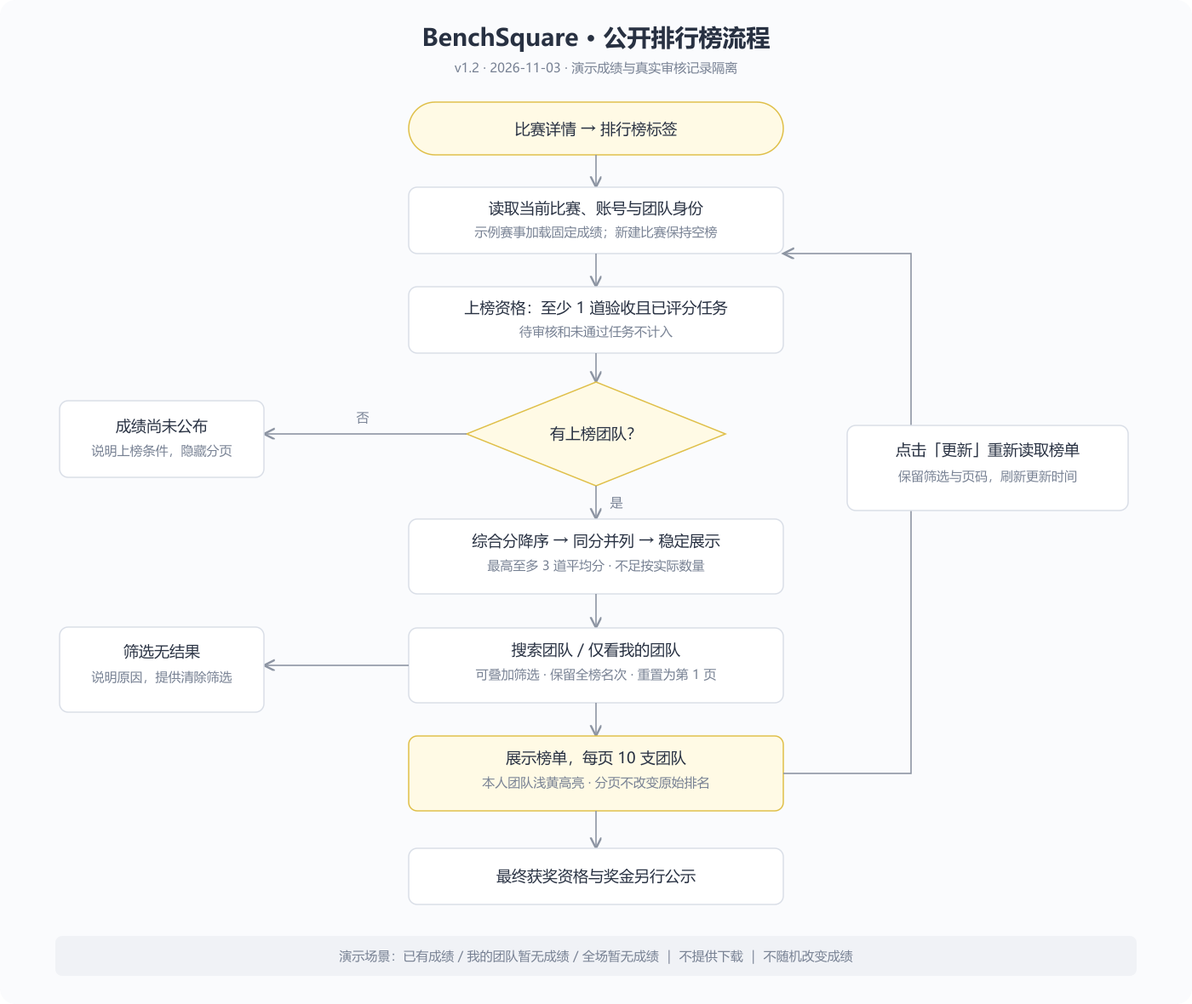
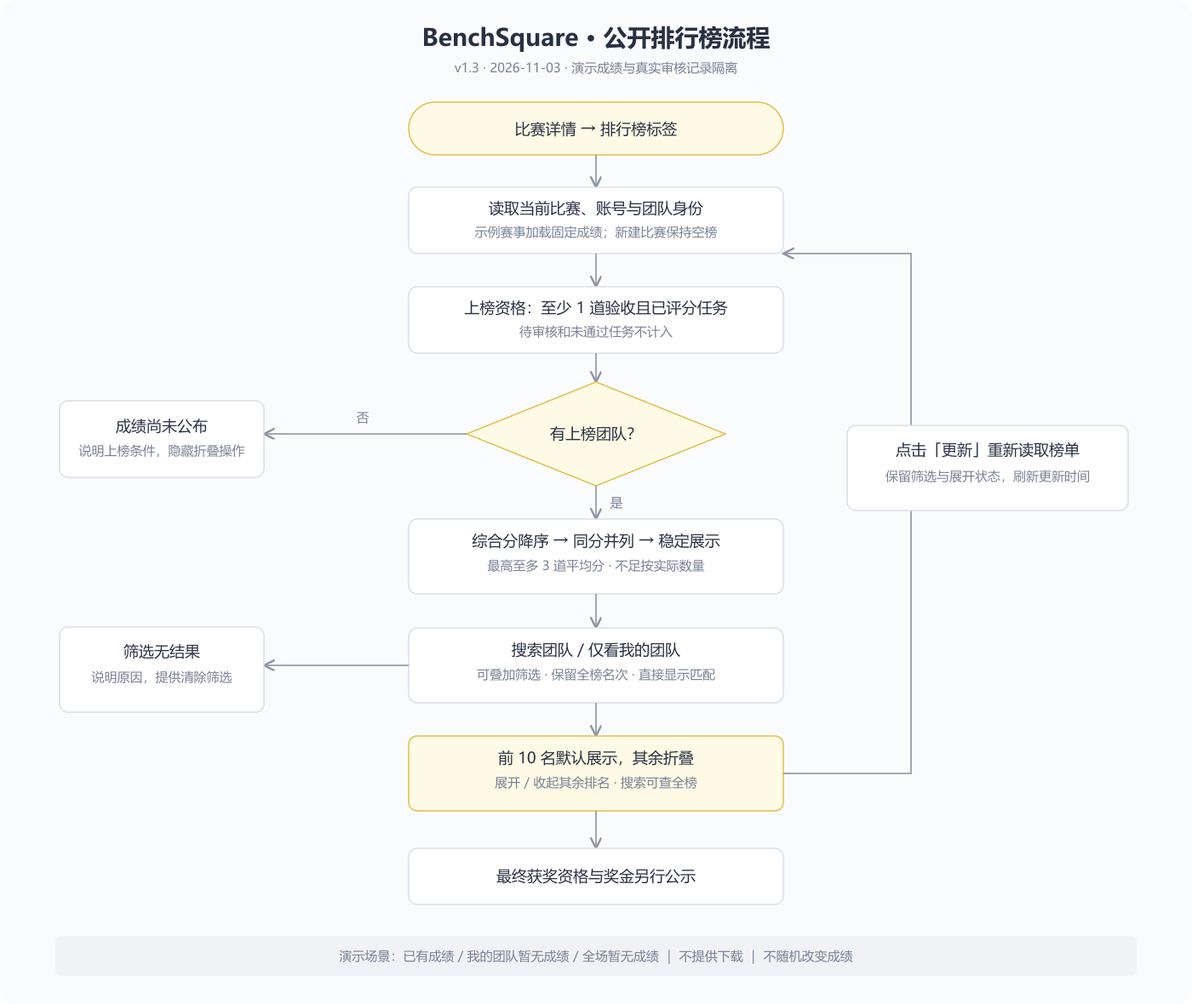
Show top ten leaderboard ranks and fold remaining teams

diff --git a/frontend/leaderboard.css b/frontend/leaderboard.css
@@ -1,2 +1,4 @@
-.detail-grid.lb-full-width{display:block}.lb-full-width>.detail-aside{display:none}.lb-full-width>.prose{max-width:none;min-width:0}.leaderboard{padding:5px 0 20px;color:var(--text,#111827)}.lb-heading{display:flex;align-items:center;justify-content:space-between;gap:20px;margin:0 0 25px}.lb-kicker{font-size:10px;letter-spacing:1.7px;color:#8a7861;margin-bottom:8px}.leaderboard .lb-heading h2{font-size:25px;margin:0;display:flex;align-items:center;gap:12px}.leaderboard .lb-heading p{font-size:12px;color:#778193;margin:9px 0 0}.lb-demo-badge{font-size:10px;font-weight:400;letter-spacing:0;background:#fcf8e8;color:#8c6d13;border:1px solid #f0e3a5;border-radius:5px;padding:3px 7px}.lb-refresh{border-radius:24px;min-width:100px}.lb-refresh>span{font-size:20px;font-weight:400}.lb-controls{display:flex;gap:22px;align-items:center}.lb-search{display:flex;gap:12px;align-items:center;border:1px solid #dce0e6;border-radius:28px;padding:12px 18px;flex:1;background:#fff}.lb-search:focus-within{border-color:#b99724;box-shadow:0 0 0 2px #fbf5d4}.lb-search svg{width:18px;height:18px;fill:none;stroke:currentColor;stroke-width:1.7;flex:none}.lb-search input{border:0;outline:0;box-shadow:none;background:transparent;width:100%;font:inherit;font-size:12px;color:inherit}.lb-only-mine{display:flex;align-items:center;gap:8px;font-size:12px;white-space:nowrap}.lb-only-mine input{accent-color:#b58b00;width:15px;height:15px}.leaderboard .lb-rule{font-size:11px;line-height:1.9;color:#6e7786;margin:18px 0 14px}.lb-demo-controls{display:flex;align-items:center;gap:10px;background:#fafafa;border:1px solid #eceef1;padding:9px 12px;border-radius:7px;font-size:11px;color:#7b8290;margin-bottom:18px}.lb-demo-controls select{border:1px solid #e0e3e8;border-radius:5px;padding:5px 8px;background:white;color:#4b5563;font:inherit}.lb-meta{display:flex;justify-content:space-between;gap:15px;font-size:11px;color:#7b8290;margin:0 0 13px}.lb-meta b{font-weight:600;color:#303744}.lb-table-wrap{border:1px solid #e0e3e8;border-radius:10px;overflow-x:auto}.leaderboard .lb-table{width:100%;border-collapse:collapse;font-size:12px;margin:0;min-width:710px}.lb-table th{background:#fafbfc;font-size:11px;color:#566071;font-weight:600;text-align:left;padding:17px 22px;border-bottom:1px solid #e0e3e8;white-space:nowrap}.lb-table td{padding:18px 22px;border-bottom:1px solid #e9ecf0;height:72px;vertical-align:middle}.lb-table tr:last-child td{border-bottom:0}.lb-table tbody tr:hover{background:#fafbfc}.lb-table td strong{font-weight:500;color:#202938}.lb-table .lb-number{text-align:right;font-variant-numeric:tabular-nums}.lb-table .lb-score{font-size:14px;font-weight:600;color:#111827}.lb-table .lb-date{font-size:11px;color:#7b8290;white-space:nowrap}.lb-rank{width:27px;height:27px;display:inline-flex;align-items:center;justify-content:center;color:#778193;font-variant-numeric:tabular-nums}.lb-top{border-radius:50%;font-weight:600}.lb-top-1{background:#fff2b3;color:#987500}.lb-top-2{background:#edf0f4;color:#667183}.lb-top-3{background:#f4e8da;color:#9b7954}.lb-table tr.lb-mine,.lb-table tr.lb-mine:hover{background:#fffbed}.lb-mine td:first-child{box-shadow:inset 3px 0 #e4bd28}.lb-my-label{display:inline-block;margin-left:10px;padding:2px 6px;background:#f8edbb;border-radius:4px;font-size:9px;white-space:nowrap;color:#876800}.lb-members{display:flex;padding-left:4px}.lb-avatar{display:inline-flex;align-items:center;justify-content:center;border:2px solid white;border-radius:50%;width:30px;height:30px;margin-left:-4px;background:#e8eff0;color:#4c7276;font-size:9px;white-space:nowrap}.lb-avatar-1{background:#eeebf5;color:#85739c}.lb-avatar-2{background:#f4ebde;color:#9c7d52}.lb-avatar-more{background:#f0f2f4;color:#7e8590}.lb-pagination{display:flex;justify-content:space-between;align-items:center;gap:12px;margin-top:20px;color:#7b8290;font-size:11px}.lb-pagination>div{display:flex;gap:9px}.lb-pagination .button{padding:8px 14px;font-size:11px;min-height:34px}.leaderboard button:disabled{opacity:.4;cursor:not-allowed}.leaderboard .lb-footnote{font-size:10px;color:#9299a4;margin-top:24px}.lb-own-notice{display:flex;flex-direction:column;gap:7px;background:#fffbed;border:1px solid #eee0a8;padding:14px 17px;border-radius:8px;margin-bottom:18px;font-size:11px}.lb-own-notice strong{font-weight:600;color:#886c14}.lb-own-notice span{color:#8c8165}.lb-empty{text-align:center;padding:65px 20px;border:1px dashed #dfe3e9;border-radius:10px;min-height:240px}.lb-empty svg{width:29px;height:29px;fill:none;stroke:#b7a46c;stroke-width:1.3}.leaderboard .lb-empty h3{font-size:16px;margin:14px 0 9px;font-weight:500}.leaderboard .lb-empty p{font-size:12px;color:#7b8290}.lb-empty small{font-size:10px;color:#9299a4}.lb-empty .button{margin-top:12px}.lb-sr{position:absolute;clip-path:inset(50%);width:1px;height:1px;overflow:hidden}
-@media(max-width:760px){.lb-heading{gap:10px}.leaderboard .lb-heading h2{font-size:21px;gap:8px}.lb-controls{align-items:stretch;flex-direction:column;gap:13px}.lb-only-mine{align-self:flex-start}.lb-demo-controls{flex-wrap:wrap}.lb-demo-controls>span{flex-basis:100%}.lb-meta{flex-wrap:wrap;gap:6px}.lb-pagination{align-items:flex-start;flex-wrap:wrap}.lb-table th,.lb-table td{padding-left:14px;padding-right:14px}}
+.detail-grid.lb-full-width{display:block}.lb-full-width>.detail-aside{display:none}.lb-full-width>.prose{max-width:none;min-width:0}.leaderboard{padding:5px 0 20px;color:var(--text,#111827)}.lb-heading{display:flex;align-items:center;justify-content:space-between;gap:20px;margin:0 0 25px}.lb-kicker{font-size:10px;letter-spacing:1.7px;color:#8a7861;margin-bottom:8px}.leaderboard .lb-heading h2{font-size:25px;margin:0;display:flex;align-items:center;gap:12px}.leaderboard .lb-heading p{font-size:12px;color:#778193;margin:9px 0 0}.lb-demo-badge{font-size:10px;font-weight:400;letter-spacing:0;background:#fcf8e8;color:#8c6d13;border:1px solid #f0e3a5;border-radius:5px;padding:3px 7px}.lb-refresh{border-radius:24px;min-width:100px}.lb-refresh>span{font-size:20px;font-weight:400}.lb-controls{display:flex;gap:22px;align-items:center}.lb-search{display:flex;gap:12px;align-items:center;border:1px solid #dce0e6;border-radius:28px;padding:12px 18px;flex:1;background:#fff}.lb-search:focus-within{border-color:#b99724;box-shadow:0 0 0 2px #fbf5d4}.lb-search svg{width:18px;height:18px;fill:none;stroke:currentColor;stroke-width:1.7;flex:none}.lb-search input{border:0;outline:0;box-shadow:none;background:transparent;width:100%;font:inherit;font-size:12px;color:inherit}.lb-only-mine{display:flex;align-items:center;gap:8px;font-size:12px;white-space:nowrap}.lb-only-mine input{accent-color:#b58b00;width:15px;height:15px}.leaderboard .lb-rule{font-size:11px;line-height:1.9;color:#6e7786;margin:18px 0 14px}.lb-demo-controls{display:flex;align-items:center;gap:10px;background:#fafafa;border:1px solid #eceef1;padding:9px 12px;border-radius:7px;font-size:11px;color:#7b8290;margin-bottom:18px}.lb-demo-controls select{border:1px solid #e0e3e8;border-radius:5px;padding:5px 8px;background:white;color:#4b5563;font:inherit}.lb-meta{display:flex;justify-content:space-between;gap:15px;font-size:11px;color:#7b8290;margin:0 0 13px}.lb-meta b{font-weight:600;color:#303744}.lb-table-wrap{border:1px solid #e0e3e8;border-radius:10px;overflow-x:auto}.leaderboard .lb-table{width:100%;border-collapse:collapse;font-size:12px;margin:0;min-width:710px}.lb-table th{background:#fafbfc;font-size:11px;color:#566071;font-weight:600;text-align:left;padding:17px 22px;border-bottom:1px solid #e0e3e8;white-space:nowrap}.lb-table td{padding:18px 22px;border-bottom:1px solid #e9ecf0;height:72px;vertical-align:middle}.lb-table tr:last-child td{border-bottom:0}.lb-table tbody tr:hover{background:#fafbfc}.lb-table td strong{font-weight:500;color:#202938}.lb-table .lb-number{text-align:right;font-variant-numeric:tabular-nums}.lb-table .lb-score{font-size:14px;font-weight:600;color:#111827}.lb-table .lb-date{font-size:11px;color:#7b8290;white-space:nowrap}.lb-rank{width:27px;height:27px;display:inline-flex;align-items:center;justify-content:center;color:#778193;font-variant-numeric:tabular-nums}.lb-top{border-radius:50%;font-weight:600}.lb-top-1{background:#fff2b3;color:#987500}.lb-top-2{background:#edf0f4;color:#667183}.lb-top-3{background:#f4e8da;color:#9b7954}.lb-table tr.lb-mine,.lb-table tr.lb-mine:hover{background:#fffbed}.lb-mine td:first-child{box-shadow:inset 3px 0 #e4bd28}.lb-my-label{display:inline-block;margin-left:10px;padding:2px 6px;background:#f8edbb;border-radius:4px;font-size:9px;white-space:nowrap;color:#876800}.lb-members{display:flex;padding-left:4px}.lb-avatar{display:inline-flex;align-items:center;justify-content:center;border:2px solid white;border-radius:50%;width:30px;height:30px;margin-left:-4px;background:#e8eff0;color:#4c7276;font-size:9px;white-space:nowrap}.lb-avatar-1{background:#eeebf5;color:#85739c}.lb-avatar-2{background:#f4ebde;color:#9c7d52}.lb-avatar-more{background:#f0f2f4;color:#7e8590}.lb-fold-control{display:flex;justify-content:space-between;align-items:center;gap:12px;margin-top:20px;color:#7b8290;font-size:11px}.lb-fold-control>div{display:flex;gap:9px}.lb-fold-control .button{padding:8px 14px;font-size:11px;min-height:34px}.leaderboard button:disabled{opacity:.4;cursor:not-allowed}.leaderboard .lb-footnote{font-size:10px;color:#9299a4;margin-top:24px}.lb-own-notice{display:flex;flex-direction:column;gap:7px;background:#fffbed;border:1px solid #eee0a8;padding:14px 17px;border-radius:8px;margin-bottom:18px;font-size:11px}.lb-own-notice strong{font-weight:600;color:#886c14}.lb-own-notice span{color:#8c8165}.lb-empty{text-align:center;padding:65px 20px;border:1px dashed #dfe3e9;border-radius:10px;min-height:240px}.lb-empty svg{width:29px;height:29px;fill:none;stroke:#b7a46c;stroke-width:1.3}.leaderboard .lb-empty h3{font-size:16px;margin:14px 0 9px;font-weight:500}.leaderboard .lb-empty p{font-size:12px;color:#7b8290}.lb-empty small{font-size:10px;color:#9299a4}.lb-empty .button{margin-top:12px}.lb-sr{position:absolute;clip-path:inset(50%);width:1px;height:1px;overflow:hidden}
+@media(max-width:760px){.lb-heading{gap:10px}.leaderboard .lb-heading h2{font-size:21px;gap:8px}.lb-controls{align-items:stretch;flex-direction:column;gap:13px}.lb-only-mine{align-self:flex-start}.lb-demo-controls{flex-wrap:wrap}.lb-demo-controls>span{flex-basis:100%}.lb-meta{flex-wrap:wrap;gap:6px}.lb-fold-control{align-items:flex-start;flex-wrap:wrap}.lb-table th,.lb-table td{padding-left:14px;padding-right:14px}}
+
+.lb-fold-control .button{display:inline-flex;align-items:center;gap:9px}.lb-fold-control .button[aria-expanded="true"]{background:#fffbed}

diff --git a/frontend/leaderboard.js b/frontend/leaderboard.js
@@ -2,7 +2,7 @@
   'use strict';
   const M=LeaderboardModel,oldContent=detailContent,oldDetails=details;
   const views=new Map();
-  function view(c){const key=c.id+':'+window.expertCenter.uid();if(!views.has(key))views.set(key,{query:'',mine:false,page:1,scenario:'scores',updatedAt:null});return views.get(key);}
+  function view(c){const key=c.id+':'+window.expertCenter.uid();if(!views.has(key))views.set(key,{query:'',mine:false,expanded:false,scenario:'scores',updatedAt:null});return views.get(key);}
   const team=c=>window.expertCenter.db.teams.find(t=>t.cid===c.id&&t.members.includes(window.expertCenter.uid()));
   const isDemo=c=>initial.some(x=>x.id===c.id)||c.id.startsWith('mine-example-')||c.id==='workbench-demo';
   // Upgrade only the old, exact fixture wording in cached sample competitions.
@@ -24,14 +24,14 @@
   function own(c){const t=team(c);return t?{...t,members:t.members.map(id=>window.expertCenter.names(id))}:null;}
   function data(c){const v=view(c),t=own(c);const rows=isDemo(c)&&v.scenario!=='empty'?M.fixtures(c.id,v.scenario==='scores'?t:null):[];return M.select(rows,{...v,teamId:t?.id});}
   function result(c){
-    const v=view(c),t=own(c),d=data(c);v.page=d.page;
+    const v=view(c),t=own(c),d=data(c);
     let hint='';
     if(t&&!d.ranked.some(r=>r.id===t.id))hint=`<div class="lb-own-notice"><strong>${esc(t.name)} · 我的团队暂无成绩</strong><span>至少 1 道任务通过验收并完成评分即可上榜，待审核及未通过提交不计分。</span></div>`;
     let body;
     if(!d.ranked.length)body='<div class="lb-empty"><span class="lb-empty-icon">'+icon('cup')+'</span><h3>成绩尚未公布</h3><p>任务通过验收并完成评分后，符合条件的团队将在这里上榜。</p><small>榜单成绩不代表最终获奖结果，以赛事公示为准。</small></div>';
     else if(!d.total)body='<div class="lb-empty">'+icon('search')+'<h3>'+(v.mine?'我的团队暂无上榜成绩':'没有找到匹配的团队')+'</h3><p>'+(v.mine?'通过验收并完成评分后，可在此查看团队排名。':'试试其他团队名称，或清除筛选条件。')+'</p><button class="button" data-lb="clear">清除筛选</button></div>';
-    else body=`<div class="lb-table-wrap" tabindex="0" role="region" aria-label="排行榜表格，可横向滚动"><table class="lb-table"><caption class="lb-sr">按综合得分从高到低排列的团队排行榜</caption><thead><tr><th scope="col">排名</th><th scope="col">团队</th><th scope="col">成员</th><th scope="col" class="lb-number">综合得分 ↓</th><th scope="col" class="lb-number">有效提交</th><th scope="col">最近提交</th></tr></thead><tbody>${d.rows.map(r=>`<tr class="${r.id===t?.id?'lb-mine':''}"><td><span class="lb-rank ${r.rank<=3?'lb-top lb-top-'+r.rank:''}">${r.rank}</span></td><td><strong>${esc(r.name)}</strong>${r.id===t?.id?'<span class="lb-my-label">我的团队</span>':''}</td><td><div class="lb-members" aria-label="${esc(r.members.join('、'))}">${r.members.slice(0,3).map((n,i)=>`<span class="lb-avatar lb-avatar-${i}" title="${esc(n)}">${esc(n.slice(-2))}</span>`).join('')}${r.members.length>3?'<span class="lb-avatar lb-avatar-more">+'+(r.members.length-3)+'</span>':''}</div></td><td class="lb-number lb-score">${(r.score/100).toFixed(2)}</td><td class="lb-number">${r.valid}</td><td class="lb-date">${esc(date(r.lastAt))}</td></tr>`).join('')}</tbody></table></div>`;
-    return `${hint}<div class="lb-meta"><span>上榜 <b>${d.ranked.length}</b> 支团队${v.query||v.mine?' · 找到 '+d.total+' 支':''}</span><span>最近更新：${v.updatedAt?esc(date(v.updatedAt)):'尚未更新'}</span></div>${body}${d.total?`<nav class="lb-pagination" aria-label="排行榜分页"><span>第 ${d.page} / ${d.pages} 页 · 每页 10 支团队</span><div><button class="button" data-lb="prev" ${d.page===1?'disabled':''}>上一页</button><button class="button" data-lb="next" ${d.page===d.pages?'disabled':''}>下一页</button></div></nav>`:''}`;
+    else body=`<div class="lb-table-wrap" tabindex="0" role="region" aria-label="排行榜表格，可横向滚动"><table class="lb-table"><caption class="lb-sr">按综合得分从高到低排列的团队排行榜</caption><thead><tr><th scope="col">排名</th><th scope="col">团队</th><th scope="col">成员</th><th scope="col" class="lb-number">综合得分 ↓</th><th scope="col" class="lb-number">有效提交</th><th scope="col">最近提交</th></tr></thead><tbody id="lb-table-body">${d.rows.map(r=>`<tr class="${r.id===t?.id?'lb-mine':''}"><td><span class="lb-rank ${r.rank<=3?'lb-top lb-top-'+r.rank:''}">${r.rank}</span></td><td><strong>${esc(r.name)}</strong>${r.id===t?.id?'<span class="lb-my-label">我的团队</span>':''}</td><td><div class="lb-members" aria-label="${esc(r.members.join('、'))}">${r.members.slice(0,3).map((n,i)=>`<span class="lb-avatar lb-avatar-${i}" title="${esc(n)}">${esc(n.slice(-2))}</span>`).join('')}${r.members.length>3?'<span class="lb-avatar lb-avatar-more">+'+(r.members.length-3)+'</span>':''}</div></td><td class="lb-number lb-score">${(r.score/100).toFixed(2)}</td><td class="lb-number">${r.valid}</td><td class="lb-date">${esc(date(r.lastAt))}</td></tr>`).join('')}</tbody></table></div>`;
+    return `${hint}<div class="lb-meta"><span>上榜 <b>${d.ranked.length}</b> 支团队${v.query||v.mine?' · 找到 '+d.total+' 支':''}</span><span>最近更新：${v.updatedAt?esc(date(v.updatedAt)):'尚未更新'}</span></div>${body}${d.remaining?`<div class="lb-fold-control"><span>已展示 ${d.rows.length} / ${d.total} 支团队</span><button class="button" data-lb="toggle" aria-expanded="${d.expanded}" aria-controls="lb-table-body">${d.expanded?'收起第 11 名及以后':'展开第 11 名及以后（'+d.remaining+' 支团队）'} <span aria-hidden="true">${d.expanded?'↑':'↓'}</span></button></div>`:''}`;
   }
   function content(c){
     const v=view(c),t=own(c);if(!v.updatedAt)v.updatedAt=Date.now();
@@ -40,8 +40,8 @@
   detailContent=function(c){return detailTab==='排行榜'?content(c):oldContent(c);};
   details=function(c){const html=oldDetails(c);return detailTab==='排行榜'?html.replace('class="detail-grid"','class="detail-grid lb-full-width"'):html;};
   function update(){const c=find(currentId);if(c&&detailTab==='排行榜'&&$('#lb-results'))$('#lb-results').innerHTML=result(c);}
-  document.addEventListener('input',e=>{if(e.target.id!=='lb-search')return;const c=find(currentId);if(!c)return;Object.assign(view(c),{query:e.target.value,page:1});update();});
-  document.addEventListener('change',e=>{const c=find(currentId);if(!c)return;const v=view(c);if(e.target.id==='lb-only-mine'){v.mine=e.target.checked;v.page=1;update();}if(e.target.id==='lb-scenario'){v.scenario=e.target.value;v.page=1;update();}});
-  document.addEventListener('click',e=>{const b=e.target.closest('[data-lb]');if(!b)return;const c=find(currentId);if(!c)return;const v=view(c);switch(b.dataset.lb){case 'refresh':v.updatedAt=Date.now();update();toast(isDemo(c)?'演示榜单已更新，模拟成绩保持不变。':'排行榜已更新。');break;case 'clear':Object.assign(v,{query:'',mine:false,page:1});$('#lb-search').value='';$('#lb-only-mine').checked=false;update();$('#lb-search').focus();break;case 'prev':v.page--;update();break;case 'next':v.page++;update();break;}});
+  document.addEventListener('input',e=>{if(e.target.id!=='lb-search')return;const c=find(currentId);if(!c)return;Object.assign(view(c),{query:e.target.value,expanded:false});update();});
+  document.addEventListener('change',e=>{const c=find(currentId);if(!c)return;const v=view(c);if(e.target.id==='lb-only-mine'){v.mine=e.target.checked;v.expanded=false;update();}if(e.target.id==='lb-scenario'){v.scenario=e.target.value;v.expanded=false;update();}});
+  document.addEventListener('click',e=>{const b=e.target.closest('[data-lb]');if(!b)return;const c=find(currentId);if(!c)return;const v=view(c);switch(b.dataset.lb){case 'refresh':v.updatedAt=Date.now();update();toast(isDemo(c)?'演示榜单已更新，模拟成绩保持不变。':'排行榜已更新。');break;case 'clear':Object.assign(v,{query:'',mine:false,expanded:false});$('#lb-search').value='';$('#lb-only-mine').checked=false;update();$('#lb-search').focus();break;case 'toggle':v.expanded=!v.expanded;update();$('#lb-results [data-lb="toggle"]')?.focus({preventScroll:true});break;}});
   render();
 })();

diff --git a/frontend/leaderboard-model.js b/frontend/leaderboard-model.js
@@ -6,11 +6,11 @@
     sorted.forEach((t,i)=>{t.rank=i&&t.score===sorted[i-1].score?sorted[i-1].rank:i+1;});
     return sorted;
   }
-  function select(teams,{query='',mine=false,teamId='',page=1,size=10}={}){
+  function select(teams,{query='',mine=false,teamId='',expanded=false}={}){
     const ranked=rank(teams),needle=query.trim().toLocaleLowerCase();
     const filtered=ranked.filter(t=>(!needle||t.name.toLocaleLowerCase().includes(needle))&&(!mine||t.id===teamId));
-    const pages=Math.max(1,Math.ceil(filtered.length/size)),current=Math.max(1,Math.min(page,pages));
-    return {rows:filtered.slice((current-1)*size,current*size),total:filtered.length,ranked,page:current,pages};
+    const filtering=!!needle||mine,remaining=filtered.filter(t=>t.rank>10).length;
+    return {rows:filtering||expanded?filtered:filtered.filter(t=>t.rank<=10),total:filtered.length,ranked,remaining:filtering?0:remaining,expanded:!filtering&&expanded&&remaining>0,filtering};
   }
   function fixtures(cid,ownTeam){
     const names=['数据探索者','知行研究队','精确标注组','山海数据社','星河实验室','长尾探索队','向量空间','多维观察组','青禾共创队','逐光研究组','零一数据队','北辰实验室','答案有据队','远山协作组','拾贝数据社','知微工作组','格物共创队','清晰边界队','复现研究社','新知探索队'];

diff --git a/docs/leaderboard/README.md b/docs/leaderboard/README.md
@@ -1,6 +1,6 @@
 # 榜单公示 PRD
 
-版本：1.2｜更新日期：2026-11-03｜状态：Demo 已实现，文档待评审
+版本：1.3｜更新日期：2026-11-03｜状态：Demo 已实现，文档待评审
 
 ## 1. 项目背景
 
@@ -17,14 +17,14 @@
 | 成绩可比较 | 一队一行，综合得分降序；同分并列，筛选后保留全榜名次。 |
 | 本人可定位 | 当前比赛已组队用户可识别浅黄色高亮的本队，也可仅看我的团队。 |
 | 上榜条件清楚 | 至少 1 道任务通过验收且完成评分即可上榜；没有有效成绩时说明原因，空榜不展示空表格。 |
-| 操作结果稳定 | 搜索、分页、更新均可完成；更新保留筛选与有效页码，不随机改变模拟成绩。 |
+| 操作结果稳定 | 搜索、展开/收起、更新均可完成；更新保留筛选与展开状态，不随机改变模拟成绩。 |
 | 演示边界明确 | 系统示例标注演示数据，新建比赛不自动填充分数；榜单不改动审核或奖金记录。 |
 
 ## 3. 用户与场景
 
 | 角色 | 场景 | 任务与结果 |
 | --- | --- | --- |
-| 比赛访问者 | 进入比赛详情的排行榜 | 查看公开团队成绩，搜索团队并翻页；不要求先报名。 |
+| 比赛访问者 | 进入比赛详情的排行榜 | 默认查看前10名，展开其余排名或搜索团队；不要求先报名。 |
 | 已完成组队的参赛者 | 查找本队名次或发现本队尚未上榜 | 通过高亮或仅看我的团队定位；无成绩时看到上榜条件。 |
 | 演示使用者 | 展示有成绩、本人无成绩与全场无成绩 | 切换内置演示场景，对比状态，不改变提交与审核数据。 |
 
@@ -34,8 +34,8 @@
 
 | 优先级 | 本期范围 |
 | --- | --- |
-| 必须 | 公开榜单、6 个表格字段、同分并列、当前团队高亮、搜索、仅看本人、10 条/页分页、更新。 |
-| 必须 | 全场无成绩、本人无成绩、搜索无结果、未组队、分页边界的可见反馈。 |
+| 必须 | 公开榜单、6 个表格字段、同分并列、当前团队高亮、搜索、仅看本人、前10名默认展示、其余排名折叠、更新。 |
+| 必须 | 全场无成绩、本人无成绩、搜索无结果、未组队、展开/收起的可见反馈。 |
 | 必须 | 系统示例提供 20 支固定虚构团队及 3 种演示场景，示例与新建比赛区分。 |
 | 延续现有流程 | 比赛详情入口、报名组队、账号切换、任务验收标准及奖金公示说明。 |
 | 本期不做 | 榜单下载与 CSV 导出、真实评分接口、真实审核联动、修改成绩、自动发奖、团队详情跳转。 |
@@ -44,7 +44,7 @@
 
 ## 5. 业务流程
 
-进入比赛详情 → 选择排行榜 → 读取当前比赛与账号团队 → 获取榜单 → 过滤上榜资格 → 计算全榜名次 → 应用搜索和仅看本人条件 → 按每页 10 支展示。
+进入比赛详情 → 选择排行榜 → 读取当前比赛与账号团队 → 获取榜单 → 过滤上榜资格 → 计算全榜名次 → 应用搜索和仅看本人条件 → 默认展示前10名，第11名及以后折叠，可点击展开或收起。
 
 资格口径：有效任务须验收通过且已评分，团队至少有 1 道有效任务即可上榜；综合分为最高至多 3 道有效任务的平均分：1 道取该道分数，2 道取两道平均，3 道及以上取最高 3 道平均，按两位小数口径比较。演示直接提供固定综合分，不执行真实审核聚合。
 
@@ -52,9 +52,9 @@
 
 状态：S-01 已有成绩；S-02 我的团队暂无成绩；S-03 全场暂无成绩；S-04 筛选无结果。S-02 下其他团队仍可正常上榜；S-04 清除筛选后回到完整榜单。
 
-更新路径：点击更新 → 重新读取当前演示榜单 → 保留筛选和有效页码 → 刷新最近更新时间并提示完成。成绩保持稳定，最终获奖名单另行公示。
+更新路径：点击更新 → 重新读取当前演示榜单 → 保留筛选和展开状态 → 刷新最近更新时间并提示完成。成绩保持稳定，最终获奖名单另行公示。
 
-流程图：公开榜单的加载、资格判断、筛选、分页与更新路径。
+流程图：公开榜单的加载、资格判断、筛选、折叠与更新路径。
 
 ![公开排行榜业务流程](flowchart.png)
 
@@ -65,14 +65,14 @@
 | FR-01 | 比赛详情提供排行榜标签；进入后采用通栏表格布局，隐藏本标签的奖金侧栏；切回其他标签恢复原布局。 |
 | FR-02 | 每队一行展示排名、团队、成员、综合得分、有效提交、最近提交；得分右对齐，前三名使用轻量标记，本人团队浅黄色高亮并显示标签。 |
 | FR-03 | 至少 1 道任务验收通过且完成评分即可上榜；综合分按最高至多 3 道有效任务平均分的两位小数口径降序比较，不足 3 道按实际数量计算。待审核和未通过任务不计入，提交次数不用于排序。Demo 使用预置分数，不计算真实记录。 |
-| FR-04 | 同分并列，采用 1、2、2、4 形式；同分按达到分数时间、团队标识稳定展示。搜索、仅看本人及分页均保留全榜名次。 |
-| FR-05 | 按团队名称实时包含搜索，忽略首尾空格与英文大小写；条件改变回到第 1 页。搜索与仅看本人可叠加。 |
+| FR-04 | 同分并列，采用 1、2、2、4 形式；同分按达到分数时间、团队标识稳定展示。搜索、仅看本人及展开/收起均保留全榜名次。 |
+| FR-05 | 按团队名称实时包含搜索，忽略首尾空格与英文大小写；搜索与仅看本人可叠加。筛选直接显示全部匹配团队，不受折叠限制；条件改变后重置为收起状态。 |
 | FR-06 | 已组队用户可勾选仅看我的团队；未组队禁用。本人未上榜时显示上榜条件；勾选后显示局部空态，其他团队成绩不受影响。 |
-| FR-07 | 每页 10 支，展示当前页与总页数；首尾页对应按钮禁用，无结果隐藏分页。 |
-| FR-08 | 点击更新后重新读取当前榜单，刷新北京时间的最近更新时间并反馈完成；保留搜索、本人筛选与有效页码。重复更新不累加团队或随机改变分数。 |
-| FR-09 | 全榜为空显示成绩尚未公布；仅筛选为空显示明确原因。清除筛选同时清空关键词与本人筛选，回到第 1 页；上榜团队总数不因筛选改变。 |
+| FR-07 | 默认展示全榜前10名，第11名及以后折叠。点击展开显示其余团队，可再次收起；第10名的并列团队全部展示。没有其余排名时不显示折叠按钮；搜索和仅看本人时直接显示全部匹配结果。 |
+| FR-08 | 点击更新后重新读取当前榜单，刷新北京时间的最近更新时间并反馈完成；保留搜索、本人筛选与展开状态。重复更新不累加团队或随机改变分数。 |
+| FR-09 | 全榜为空显示成绩尚未公布；仅筛选为空显示明确原因。清除筛选同时清空关键词与本人筛选，恢复前10名默认展开、其余收起；上榜团队总数不因筛选改变。 |
 | FR-10 | 内置示例提供已有成绩、我的团队暂无成绩、全场暂无成绩切换，显示演示数据标记及说明；固定 20 支团队，其中 2 支并列第 2，已有成绩场景的本队第 6。新建比赛默认空榜，不注入模拟成绩。 |
-| FR-11 | 按账号和比赛分别维护页面会话内的搜索、筛选、页码和场景；切换身份不把他人的团队标为本队，不承诺刷新页面后保留筛选。 |
+| FR-11 | 按账号和比赛分别维护页面会话内的搜索、筛选、展开状态和场景；切换身份不把他人的团队标为本队，不承诺刷新页面后保留筛选。 |
 | FR-12 | 榜单与提交、审核、奖金记录隔离；提示最终获奖以赛事公示为准，不提供下载、导出或自动发奖入口。 |
 
 ### 榜单字段与展示对应
@@ -91,12 +91,12 @@
 
 | 页面/状态 | 入口与行为 | 沿用图片 |
 | --- | --- | --- |
-| P-01 公开榜单 | 比赛详情 → 排行榜；展示 6 列、规则、搜索、本人筛选、更新和分页。 | 桌面榜单原型 |
+| P-01 公开榜单 | 比赛详情 → 排行榜；展示 6 列、规则、搜索、本人筛选、更新和折叠操作。 | 桌面榜单原型 |
 | P-02 本队暂无成绩 | 切换演示场景；保留他队榜单并说明本队上榜条件，仅看本人时显示局部空态。 | 沿用 P-01 布局与状态文案 |
-| P-03 全场暂无成绩 | 切换全场无成绩；显示空态说明，不展示表格和分页。 | 空榜原型 |
+| P-03 全场暂无成绩 | 切换全场无成绩；显示空态说明，不展示表格和折叠操作。 | 空榜原型 |
 | P-04 筛选无结果 | 输入无匹配名称或筛选未上榜本队；清除筛选回到完整榜单。 | 沿用 P-01 搜索区与空态 |
 
-补充反馈：搜索无匹配时给出清除筛选；未组队时禁用本人筛选；第一页和最后一页的分页按钮按边界禁用；更新后反馈完成。本期为本地数据，不宣称具备网络请求失败重试或服务端实时同步。窄屏搜索纵向排列，表格容器横向滚动。
+补充反馈：搜索无匹配时给出清除筛选；未组队时禁用本人筛选；第11名及以后可展开/收起，无其余排名时隐藏折叠按钮；搜索或仅看本人直接显示匹配团队；更新后反馈完成。本期为本地数据，不宣称具备网络请求失败重试或服务端实时同步。窄屏搜索纵向排列，表格容器横向滚动。
 
 ### 7.1 公开榜单（P-01）
 
@@ -104,9 +104,15 @@
 
 ![桌面公开榜单](prototype-desktop.png)
 
+### 7.1.1 展开其余排名
+
+点击“展开第11名及以后”后展示其余团队，并提供收起操作；更新保留展开状态。
+
+![展开其余排名](prototype-expanded.png)
+
 ### 7.2 全场暂无成绩（P-03）
 
-空榜原型：保留比赛与排行榜标题、搜索和更新；说明任务通过验收并完成评分后上榜，表格与分页隐藏。本人有团队时额外显示本队暂无成绩的提示。
+空榜原型：保留比赛与排行榜标题、搜索和更新；说明任务通过验收并完成评分后上榜，表格与折叠操作隐藏。本人有团队时额外显示本队暂无成绩的提示。
 
 ![全场暂无成绩](prototype-empty.png)
 
@@ -128,16 +134,16 @@
 | AC-02 | FR-02 | 已有成绩场景查看表头、本队与前三名。 | 6 个字段完整；本队高亮且有标签，分数两位小数并右对齐。 |
 | AC-03 | FR-03 | 分别检查待审核、未通过、0 道有效成绩，以及 1、2、3 道及以上有效成绩的输入。 | 待审核、未通过和 0 道有效成绩不参与排名；1 道及以上有有效分数即可上榜；Demo 不据真实审核记录造分。 |
 | AC-04 | FR-04 | 查看固定示例榜单，并搜索一支并列队伍。 | 前几名为 1、2、2、4；搜索后仍显示原名次。 |
-| AC-05 | FR-05 | 输入团队名、首尾空格、无匹配关键词；叠加本人筛选。 | 按条件实时过滤且回到第 1 页，无匹配有明确说明。 |
+| AC-05 | FR-05 | 输入团队名、首尾空格、无匹配关键词；叠加本人筛选。 | 按条件实时过滤并显示全部匹配团队，原名次不变，无匹配有明确说明。 |
 | AC-06 | FR-06 | 已组队用户勾选本人；切换本人无成绩场景；再使用未组队用户。 | 先仅显示本队原名次；无成绩时说明上榜条件；未组队用户的本人筛选禁用。 |
-| AC-07 | FR-07 | 20 支团队翻到第 2 页，再尝试边界按钮。 | 每页 10 支；第 2 页从全榜第 11 名开始；边界按钮禁用。 |
-| AC-08 | FR-08 | 保留搜索条件或第 2 页，重复点击更新。 | 筛选与有效页码保留，最近更新时间刷新，有完成提示；成绩不随机变化，不重复增加团队。 |
-| AC-09 | FR-09 | 全场空榜与搜索无结果分别进入，再清除筛选。 | 全场空榜无表格和分页；筛选空态说明原因；清除筛选回完整榜单第 1 页。 |
+| AC-07 | FR-07 | 20支团队默认收起，依次展开、收起；检查不足10名和第10名并列的情况。 | 默认显示前10名，展开后显示全部20支，收起后恢复；不足10名时无折叠按钮，第10名并列团队全部展示。 |
+| AC-08 | FR-08 | 保留搜索条件或展开状态，重复点击更新。 | 筛选与展开状态保留，最近更新时间刷新，有完成提示；成绩不随机变化，不重复增加团队。 |
+| AC-09 | FR-09 | 全场空榜与搜索无结果分别进入，再清除筛选。 | 全场空榜无表格和折叠按钮；筛选空态说明原因；清除筛选恢复前10名、其余折叠。 |
 | AC-10 | FR-10 | 切换 3 种演示场景，再进入新建比赛。 | 内置场景有演示标记；新建比赛不自动出现虚构分数。 |
 | AC-11 | FR-11 | 在比赛 A 搜索，切换比赛 B；再切换当前账号。 | 比赛和账号的筛选状态分开，本队标识按当前身份读取。 |
 | AC-12 | FR-12 | 查看更新前后的提交、审核与奖金记录，以及榜单操作区。 | 记录未被榜单改写；无下载与导出按钮；页面说明获奖另行公示。 |
 | AC-13 | FR-02/05/07 | 在窄屏查看搜索、筛选和表格。 | 控件可操作；表格在自身容器横向滚动，整页不横向溢出。 |
 
-实现记录：沿用上一版验证结果，排名模型、现有测试与构建、桌面浏览器交互检查均已通过。本次只调整 PRD 组织与表达，不变更 Demo 功能。
+实现记录：本次将分页替换为前10名默认展示、其余排名折叠；模型和浏览器测试覆盖展开、收起、更新保留展开状态、搜索第10名之后团队及第10名并列边界。
 
 代码仓库：[rongyinger/benchsquare](https://github.com/rongyinger/benchsquare)；[在线 Demo](https://rongyinger.github.io/benchsquare/frontend/)。格式参考：[比赛发布审核 PRD](https://xcnhc87xvcni.feishu.cn/wiki/YChmwM7xtiItMqkpuSicRTGwnkg)。

diff --git a/README.md b/README.md
@@ -4,7 +4,7 @@
 
 支持赛事发现、报名组队、主办方中心、个人资料、任务提交及模拟审核。数据保存在当前浏览器的 localStorage 中，附件仅保留在页面会话中；尚未接入真实后端、身份认证、附件上传和支付服务。
 
-比赛详情的排行榜支持搜索团队、仅看我的团队、同分并列、分页和更新；内置赛事提供三种成绩演示场景，不提供榜单下载。[排行榜 PRD、流程图与原型图](docs/leaderboard/README.md)。
+比赛详情的排行榜支持搜索团队、仅看我的团队、同分并列、前十名展示、其余排名折叠和更新；内置赛事提供三种成绩演示场景，不提供榜单下载。[排行榜 PRD、流程图与原型图](docs/leaderboard/README.md)。
 
 任务提交表单包含任务信息、材料与参考结果、验证标准、提交确认四个分区，已移除难度自测。[任务提交 PRD、流程图与原型图](docs/submission/README.md)。
 
